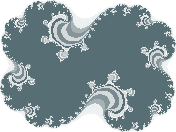
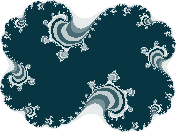
modify some colors

diff --git a/css/style.css b/css/style.css
@@ -1,1 +1,1 @@
-    @import url(http://fonts.googleapis.com/css?family=Open+Sans+Condensed:300,700);@import url(http://fonts.googleapis.com/css?family=Inconsolata);@import url(http://fonts.googleapis.com/css?family=Muli);html, button, input, select, textarea{color:#222222}html{font-size:1em;line-height:1.4}::-moz-selection{color:white;background:#93a1a1;text-shadow:none}::selection{color:white;background:#93a1a1;text-shadow:none}hr{display:block;height:1px;border:0;border-top:1px solid #cccccc;margin:1em 0;padding:0}audio, canvas, img, video{vertical-align:middle}fieldset{border:0;margin:0;padding:0}textarea{resize:vertical}.browsehappy{margin:0.2em 0;background:#cccccc;color:black;padding:0.2em 0}html{height:100%}body{font-family:muli, verdana, helvetica, sans-serif;color:#586e75;background-color:white;overflow-x:hidden;min-height:100%;min-width:700px;max-width:700px;height:auto !important;width:100%;position:relative}body strong{font-family:helvetica}a:focus{outline:none}header hr{color:#93a1a1;margin-top:30px;margin-left:210px;margin-right:20px;margin-bottom:18px;width:100%}header h1{font-family:"Open Sans Condensed", sans-serif;font-size:350%;font-weight:bold;color:#586e75;margin-top:0;padding-top:0}header nav{top:0;bottom:0;left:0;height:100%;width:190px;position:fixed;background-color:#586e75}header nav hr{color:white;margin-top:0px;margin-bottom:30px;margin-left:20px;text-align:center;width:146px}header nav a:link{color:white;text-decoration:none;-webkit-transition:all 0.3s;-moz-transition:all 0.3s;-o-transition:all 0.3s;transition:all 0.3s}header nav a:visited{color:white;text-decoration:none}header nav a:hover{color:#dc322f;text-decoration:none}header nav table{font-family:"Open Sans Condensed", sans-serif;font-weight:300;font-size:130%;width:100%;text-align:right}header nav table td{width:100%;padding-top:5px;padding-bottom:5px;padding-right:40px}article{font-size:95%;margin-left:250px;margin-right:auto;padding-bottom:75px;width:650px}article h1{font-family:"Open Sans Condensed", sans-serif;font-size:350%;font-weight:bold;color:#586e75;margin-top:50px}article h2{font-family:"Open Sans Condensed", sans-serif;font-size:260%;font-weight:bold;color:#586e75;margin-top:0;padding-top:0;margin-bottom:0;padding-bottom:0}article h3{font-family:"Open Sans Condensed", sans-serif;font-size:200%;margin-top:0;padding-top:0;margin-bottom:0;padding-bottom:0}article h4{font-family:"Open Sans Condensed", sans-serif;font-size:150%;margin-top:0;padding-top:0;margin-bottom:0;padding-bottom:0}article table{width:100%;border-collapse:collapse;border:1px solid #586e75}article table th{color:white;background-color:#93a1a1;border:1px solid #586e75;text-align:center;padding-top:5px;padding-bottom:5px;padding-left:10px;padding-right:10px}article table td{vertical-align:top;border:1px solid #586e75;padding-top:5px;padding-bottom:5px;padding-left:10px;padding-right:10px}article table pre, article table blockquote{margin:0;padding-left:0;padding-right:0;padding-top:0;padding-bottom:0;border:0px}.infer{width:auto;border:0px}.infer tr.conc{border-top:1px solid #586e75}.infer td{border:0px;color:#586e75;background-color:white;text-align:center;padding-top:3px;padding-bottom:3px;padding-left:5px;padding-right:5px}article h2 a:link{color:#586e75;text-decoration:none}article h2 a:visited{color:#586e75;text-decoration:none}article h2 a:hover{color:#dc322f;text-decoration:none}article a:link{color:#b58900;text-decoration:none}article a:visited{color:#b58900;text-decoration:none}article a:hover{color:#dc322f;text-decoration:none}footer{font-family:arial, helvetica, sans-serif;font-size:80%;color:#93a1a1;clear:both;height:27px;padding-top:5px;width:100%;align:center;bottom:0;left:0;right:0}footer a:link{color:#b58900;text-decoration:none}footer a:visited{color:#b58900;text-decoration:none}footer a:hover{color:#dc322f;text-decoration:none}footer table{margin-left:250px;width:100%}footer table td{border:0px;min-width:100px;overflow:hidden;text-overflow:ellipsis;white-space:nowrap}#license{padding-left:0px}#hakyll{text-align:right;padding-right:30px}.about-section{margin-bottom:7%}.post-header{margin-top:0px}.post-info{font-size:90%;color:#93a1a1;margin-bottom:7%}.post-list{margin-bottom:10%}#post-link{margin-top:40px}.post-link-list{margin-bottom:10%}.post-body{margin-bottom:10%}.tag-list{margin-top:5%}.nav-link{border:0px;clear:both;width:100%;font-size:120%;font-weight:300}.nav-link td{border:0px}.footnotes{font-size:80%}article hr{margin-top:6%;margin-bottom:3%;margin-left:0;margin-right:0;width:100%;text-align:center}ul{list-style:none;margin-left:0;padding-left:1em;text-indent:-1em}ul li:before{content:"\00BB \0020"}ul ul li:before{content:"\002D \0020"}#lambda{padding-top:30px;padding-bottom:20px;padding-left:15px;background-color:none}#fractal{padding-left:530px;padding-bottom:20px;width:100%}#socialbar{padding-left:515px;padding-bottom:20px;width:100%}#socialbar a{background:white;color:#586e75;font-size:230%;text-align:center;text-decoration:none;display:inline-block;-webkit-transition:all 0.3s;-moz-transition:all 0.3s;-o-transition:all 0.3s;transition:all 0.3s}#socialbar a:hover{background:white;color:#93a1a1}.gcse-searchbar{font-size:70%;width:300px;margin-top:1%;margin-right:0%;float:right}code{font-family:"Courier New", Courier, monospace;font-size:100%}.sourceCode::-webkit-scrollbar{width:7px;height:7px;background-color:transparent;-webkit-border-radius:100px}.sourceCode::-webkit-scrollbar:hover{background-color:rgba(0, 0, 0, 0.1)}.sourceCode::-webkit-scrollbar-thumb{background:rgba(0, 0, 0, 0.2);-webkit-border-radius:100px}.sourceCode::-webkit-scrollbar-thumb:active{background:rgba(0, 0, 0, 0.61);-webkit-border-radius:100px}code.sourceCode::-moz-selection{color:white;background:#d33682;text-shadow:none}code.sourceCode::selection{color:white;background:#d33682;text-shadow:none}pre.sourceCode{margin:0;padding-left:15px;padding-right:15px;padding-top:15px;padding-bottom:15px;border:0px;border-radius:5px;overflow-x:auto;white-space:pre;word-wrap:normal;color:#bcbcbc;background-color:#073642}pre.sourceCode::-moz-selection{color:white;background:#d33682;text-shadow:none}pre.sourceCode::selection{color:white;background:#d33682;text-shadow:none}pre.sourceCode span.kw{color:#859900}pre.sourceCode span.kw::-moz-selection{color:white;background:#d33682;text-shadow:none}pre.sourceCode span.kw::selection{color:white;background:#d33682;text-shadow:none}pre.sourceCode span.dt{color:#b58900}pre.sourceCode span.dt::-moz-selection{color:white;background:#d33682;text-shadow:none}pre.sourceCode span.dt::selection{color:white;background:#d33682;text-shadow:none}pre.sourceCode span.dv, pre.sourceCode span.bn, pre.sourceCode span.fl, pre.sourceCode span.ch, pre.sourceCode span.st{color:#cb4b16}pre.sourceCode span.dv::-moz-selection, pre.sourceCode span.bn::-moz-selection, pre.sourceCode span.fl::-moz-selection, pre.sourceCode span.ch::-moz-selection, pre.sourceCode span.st::-moz-selection{color:white;background:#d33682;text-shadow:none}pre.sourceCode span.dv::selection, pre.sourceCode span.bn::selection, pre.sourceCode span.fl::selection, pre.sourceCode span.ch::selection, pre.sourceCode span.st::selection{color:white;background:#d33682;text-shadow:none}pre.sourceCode span.co{color:#93a1a1}pre.sourceCode span.co::-moz-selection{color:white;background:#d33682;text-shadow:none}pre.sourceCode span.co::selection{color:white;background:#d33682;text-shadow:none}pre.sourceCode span.ot{color:#839496}pre.sourceCode span.ot::-moz-selection{color:white;background:#d33682;text-shadow:none}pre.sourceCode span.ot::selection{color:white;background:#d33682;text-shadow:none}pre.sourceCode span.al{color:#005f87;font-weight:bold}pre.sourceCode span.al::-moz-selection{color:white;background:#d33682;text-shadow:none}pre.sourceCode span.al::selection{color:white;background:#d33682;text-shadow:none}pre.sourceCode span.fu{color:#268bd2}pre.sourceCode span.fu::-moz-selection{color:white;background:#d33682;text-shadow:none}pre.sourceCode span.fu::selection{color:white;background:#d33682;text-shadow:none}pre.sourceCode span.re{color:#5f5f87}pre.sourceCode span.re::-moz-selection{color:white;background:#d33682;text-shadow:none}pre.sourceCode span.re::selection{color:white;background:#d33682;text-shadow:none}pre.sourceCode span.er{color:#dc322f;font-weight:bold}pre.sourceCode span.er::-moz-selection{color:white;background:#d33682;text-shadow:none}pre.sourceCode span.er::selection{color:white;background:#d33682;text-shadow:none}table.sourceCode, tr.sourceCode, td.lineNumbers, td.sourceCode, table.sourceCode pre{margin:0;padding:0;border:0;vertical-align:baseline;border:none}td.lineNumbers{border-right:1px solid #93a1a1;text-align:right;color:#93a1a1;padding-right:5px;padding-left:5px}td.sourceCode{padding-left:5px}.ir{background-color:transparent;border:0;overflow:hidden;*text-indent:-9999px}.ir:before{content:"";display:block;width:0;height:150%}.hidden{display:none !important;visibility:hidden}.visuallyhidden{border:0;clip:rect(0 0 0 0);height:1px;margin:-1px;overflow:hidden;padding:0;position:absolute;width:1px}.visuallyhidden.focusable:active, .visuallyhidden.focusable:focus{clip:auto;height:auto;margin:0;overflow:visible;position:static;width:auto}.invisible{visibility:hidden}.clearfix:before, .clearfix:after{content:" ";display:table}.clearfix:after{clear:both}.clearfix{*zoom:1}@media only screen and (min-width:35em){}@media print, (-o-min-device-pixel-ratio:5 / 4), (-webkit-min-device-pixel-ratio:1.25), (min-resolution:120dpi){}@media print{*{background:transparent !important;color:black !important;box-shadow:none !important;text-shadow:none !important}a, a:visited{text-decoration:underline}a[href]:after{content:" (" attr(href) ")"}abbr[title]:after{content:" (" attr(title) ")"}.ir a:after, a[href^="javascript:"]:after, a[href^="#"]:after{content:""}pre, blockquote{border:1px solid #999999;page-break-inside:avoid}thead{display:table-header-group}tr, img{page-break-inside:avoid}img{max-width:100% !important}@page{margin:0.5cm}p, h2, h3{orphans:3;widows:3}h2, h3{page-break-after:avoid}}
+    @import url(http://fonts.googleapis.com/css?family=Open+Sans+Condensed:300,700);@import url(http://fonts.googleapis.com/css?family=Inconsolata);@import url(http://fonts.googleapis.com/css?family=Muli);html, button, input, select, textarea{color:#222222}html{font-size:1em;line-height:1.4}::-moz-selection{color:white;background:#586e75;text-shadow:none}::selection{color:white;background:#586e75;text-shadow:none}hr{display:block;height:1px;border:0;border-top:1px solid #cccccc;margin:1em 0;padding:0}audio, canvas, img, video{vertical-align:middle}fieldset{border:0;margin:0;padding:0}textarea{resize:vertical}.browsehappy{margin:0.2em 0;background:#cccccc;color:black;padding:0.2em 0}html{height:100%}body{font-family:muli, verdana, helvetica, sans-serif;color:#073642;background-color:white;overflow-x:hidden;min-height:100%;min-width:700px;max-width:700px;height:auto !important;width:100%;position:relative}body strong{font-family:helvetica}a:focus{outline:none}header hr{color:#93a1a1;margin-top:30px;margin-left:210px;margin-right:20px;margin-bottom:18px;width:100%}header h1{font-family:"Open Sans Condensed", sans-serif;font-size:350%;font-weight:bold;color:#073642;margin-top:0;padding-top:0}header nav{top:0;bottom:0;left:0;height:100%;width:190px;position:fixed;background-color:#073642}header nav hr{color:white;margin-top:0px;margin-bottom:30px;margin-left:20px;text-align:center;width:146px}header nav a:link{color:white;text-decoration:none;-webkit-transition:all 0.3s;-moz-transition:all 0.3s;-o-transition:all 0.3s;transition:all 0.3s}header nav a:visited{color:white;text-decoration:none}header nav a:hover{color:#dc322f;text-decoration:none}header nav table{font-family:"Open Sans Condensed", sans-serif;font-weight:300;font-size:130%;width:100%;text-align:right}header nav table td{width:100%;padding-top:5px;padding-bottom:5px;padding-right:40px}article{font-size:95%;margin-left:250px;margin-right:auto;padding-bottom:75px;width:650px}article h1{font-family:"Open Sans Condensed", sans-serif;font-size:350%;font-weight:bold;color:#073642;margin-top:50px}article h2{font-family:"Open Sans Condensed", sans-serif;font-size:260%;font-weight:bold;color:#073642;margin-top:0;padding-top:0;margin-bottom:0;padding-bottom:0}article h3{font-family:"Open Sans Condensed", sans-serif;font-size:200%;margin-top:0;padding-top:0;margin-bottom:0;padding-bottom:0}article h4{font-family:"Open Sans Condensed", sans-serif;font-size:150%;margin-top:0;padding-top:0;margin-bottom:0;padding-bottom:0}article table{width:100%;border-collapse:collapse;border:1px solid #073642}article table th{color:white;background-color:#073642;border:1px solid #073642;text-align:center;padding-top:5px;padding-bottom:5px;padding-left:10px;padding-right:10px}article table td{vertical-align:top;border:1px solid #073642;padding-top:5px;padding-bottom:5px;padding-left:10px;padding-right:10px}article table pre, article table blockquote{margin:0;padding-left:0;padding-right:0;padding-top:0;padding-bottom:0;border:0px}.infer{width:auto;border:0px}.infer tr.conc{border-top:1px solid #073642}.infer td{border:0px;color:#073642;background-color:white;text-align:center;padding-top:3px;padding-bottom:3px;padding-left:5px;padding-right:5px}article h2 a:link{color:#073642;text-decoration:none}article h2 a:visited{color:#073642;text-decoration:none}article h2 a:hover{color:#dc322f;text-decoration:none}article a:link{color:#b58900;text-decoration:none}article a:visited{color:#b58900;text-decoration:none}article a:hover{color:#dc322f;text-decoration:none}footer{font-family:arial, helvetica, sans-serif;font-size:80%;color:#586e75;clear:both;height:27px;padding-top:5px;width:100%;align:center;bottom:0;left:0;right:0}footer a:link{color:#b58900;text-decoration:none}footer a:visited{color:#b58900;text-decoration:none}footer a:hover{color:#dc322f;text-decoration:none}footer table{margin-left:250px;width:100%}footer table td{border:0px;min-width:100px;overflow:hidden;text-overflow:ellipsis;white-space:nowrap}#license{padding-left:0px}#hakyll{text-align:right;padding-right:30px}.about-section{margin-bottom:7%}.post-header{margin-top:0px}.post-info{font-size:90%;color:#93a1a1;margin-bottom:7%}.post-list{margin-bottom:10%}#post-link{margin-top:40px}.post-link-list{margin-bottom:10%}.post-body{margin-bottom:10%}.tag-list{margin-top:5%}.nav-link{border:0px;clear:both;width:100%;font-size:120%;font-weight:300}.nav-link td{border:0px}.footnotes{font-size:80%}article hr{margin-top:6%;margin-bottom:3%;margin-left:0;margin-right:0;width:100%;text-align:center}ul{list-style:none;margin-left:0;padding-left:1em;text-indent:-1em}ul li:before{content:"\00BB \0020"}ul ul li:before{content:"\002D \0020"}#lambda{padding-top:30px;padding-bottom:20px;padding-left:15px;background-color:none}#fractal{padding-left:530px;padding-bottom:20px;width:100%}#socialbar{padding-left:515px;padding-bottom:20px;width:100%}#socialbar a{background:white;color:#073642;font-size:230%;text-align:center;text-decoration:none;display:inline-block;-webkit-transition:all 0.3s;-moz-transition:all 0.3s;-o-transition:all 0.3s;transition:all 0.3s}#socialbar a:hover{background:white;color:#586e75}.gcse-searchbar{font-size:70%;width:300px;margin-top:1%;margin-right:0%;float:right}code{font-family:"Courier New", Courier, monospace;font-size:100%}.sourceCode::-webkit-scrollbar{width:7px;height:7px;background-color:transparent;-webkit-border-radius:100px}.sourceCode::-webkit-scrollbar:hover{background-color:rgba(0, 0, 0, 0.1)}.sourceCode::-webkit-scrollbar-thumb{background:rgba(0, 0, 0, 0.2);-webkit-border-radius:100px}.sourceCode::-webkit-scrollbar-thumb:active{background:rgba(0, 0, 0, 0.61);-webkit-border-radius:100px}code.sourceCode::-moz-selection{color:white;background:#d33682;text-shadow:none}code.sourceCode::selection{color:white;background:#d33682;text-shadow:none}pre.sourceCode{margin:0;padding-left:15px;padding-right:15px;padding-top:15px;padding-bottom:15px;border:0px;border-radius:5px;overflow-x:auto;white-space:pre;word-wrap:normal;color:#bcbcbc;background-color:#073642}pre.sourceCode::-moz-selection{color:white;background:#d33682;text-shadow:none}pre.sourceCode::selection{color:white;background:#d33682;text-shadow:none}pre.sourceCode span.kw{color:#859900}pre.sourceCode span.kw::-moz-selection{color:white;background:#d33682;text-shadow:none}pre.sourceCode span.kw::selection{color:white;background:#d33682;text-shadow:none}pre.sourceCode span.dt{color:#b58900}pre.sourceCode span.dt::-moz-selection{color:white;background:#d33682;text-shadow:none}pre.sourceCode span.dt::selection{color:white;background:#d33682;text-shadow:none}pre.sourceCode span.dv, pre.sourceCode span.bn, pre.sourceCode span.fl, pre.sourceCode span.ch, pre.sourceCode span.st{color:#cb4b16}pre.sourceCode span.dv::-moz-selection, pre.sourceCode span.bn::-moz-selection, pre.sourceCode span.fl::-moz-selection, pre.sourceCode span.ch::-moz-selection, pre.sourceCode span.st::-moz-selection{color:white;background:#d33682;text-shadow:none}pre.sourceCode span.dv::selection, pre.sourceCode span.bn::selection, pre.sourceCode span.fl::selection, pre.sourceCode span.ch::selection, pre.sourceCode span.st::selection{color:white;background:#d33682;text-shadow:none}pre.sourceCode span.co{color:#93a1a1}pre.sourceCode span.co::-moz-selection{color:white;background:#d33682;text-shadow:none}pre.sourceCode span.co::selection{color:white;background:#d33682;text-shadow:none}pre.sourceCode span.ot{color:#839496}pre.sourceCode span.ot::-moz-selection{color:white;background:#d33682;text-shadow:none}pre.sourceCode span.ot::selection{color:white;background:#d33682;text-shadow:none}pre.sourceCode span.al{color:#005f87;font-weight:bold}pre.sourceCode span.al::-moz-selection{color:white;background:#d33682;text-shadow:none}pre.sourceCode span.al::selection{color:white;background:#d33682;text-shadow:none}pre.sourceCode span.fu{color:#268bd2}pre.sourceCode span.fu::-moz-selection{color:white;background:#d33682;text-shadow:none}pre.sourceCode span.fu::selection{color:white;background:#d33682;text-shadow:none}pre.sourceCode span.re{color:#5f5f87}pre.sourceCode span.re::-moz-selection{color:white;background:#d33682;text-shadow:none}pre.sourceCode span.re::selection{color:white;background:#d33682;text-shadow:none}pre.sourceCode span.er{color:#dc322f;font-weight:bold}pre.sourceCode span.er::-moz-selection{color:white;background:#d33682;text-shadow:none}pre.sourceCode span.er::selection{color:white;background:#d33682;text-shadow:none}table.sourceCode, tr.sourceCode, td.lineNumbers, td.sourceCode, table.sourceCode pre{margin:0;padding:0;border:0;vertical-align:baseline;border:none}td.lineNumbers{border-right:1px solid #93a1a1;text-align:right;color:#93a1a1;padding-right:5px;padding-left:5px}td.sourceCode{padding-left:5px}.ir{background-color:transparent;border:0;overflow:hidden;*text-indent:-9999px}.ir:before{content:"";display:block;width:0;height:150%}.hidden{display:none !important;visibility:hidden}.visuallyhidden{border:0;clip:rect(0 0 0 0);height:1px;margin:-1px;overflow:hidden;padding:0;position:absolute;width:1px}.visuallyhidden.focusable:active, .visuallyhidden.focusable:focus{clip:auto;height:auto;margin:0;overflow:visible;position:static;width:auto}.invisible{visibility:hidden}.clearfix:before, .clearfix:after{content:" ";display:table}.clearfix:after{clear:both}.clearfix{*zoom:1}@media only screen and (min-width:35em){}@media print, (-o-min-device-pixel-ratio:5 / 4), (-webkit-min-device-pixel-ratio:1.25), (min-resolution:120dpi){}@media print{*{background:transparent !important;color:black !important;box-shadow:none !important;text-shadow:none !important}a, a:visited{text-decoration:underline}a[href]:after{content:" (" attr(href) ")"}abbr[title]:after{content:" (" attr(title) ")"}.ir a:after, a[href^="javascript:"]:after, a[href^="#"]:after{content:""}pre, blockquote{border:1px solid #999999;page-break-inside:avoid}thead{display:table-header-group}tr, img{page-break-inside:avoid}img{max-width:100% !important}@page{margin:0.5cm}p, h2, h3{orphans:3;widows:3}h2, h3{page-break-after:avoid}}
